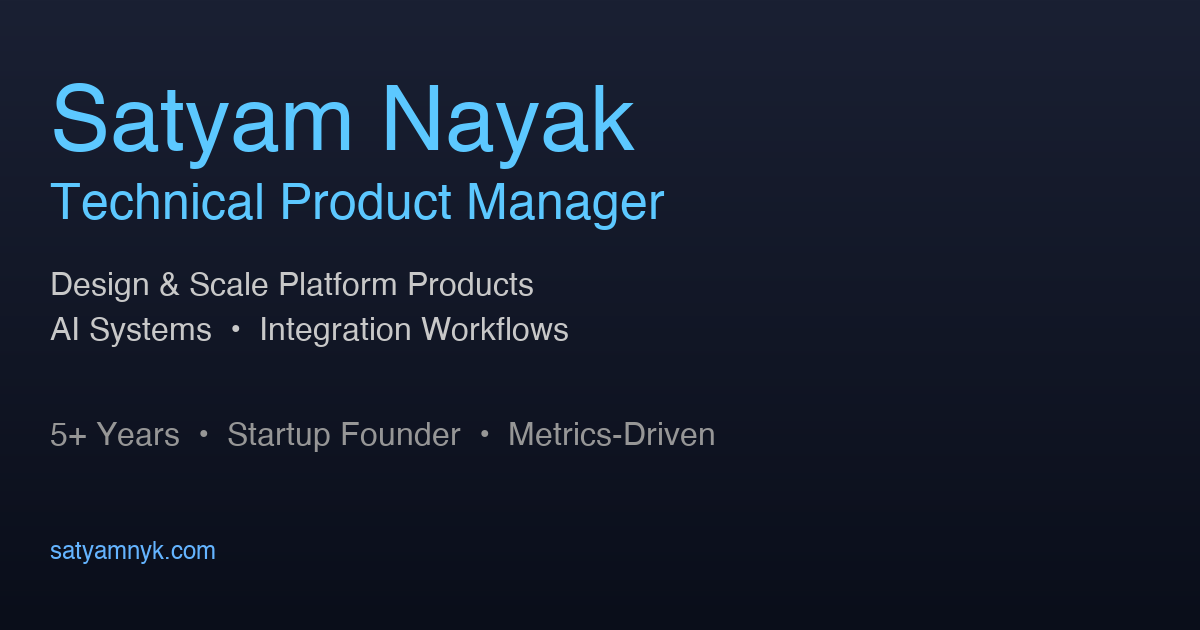
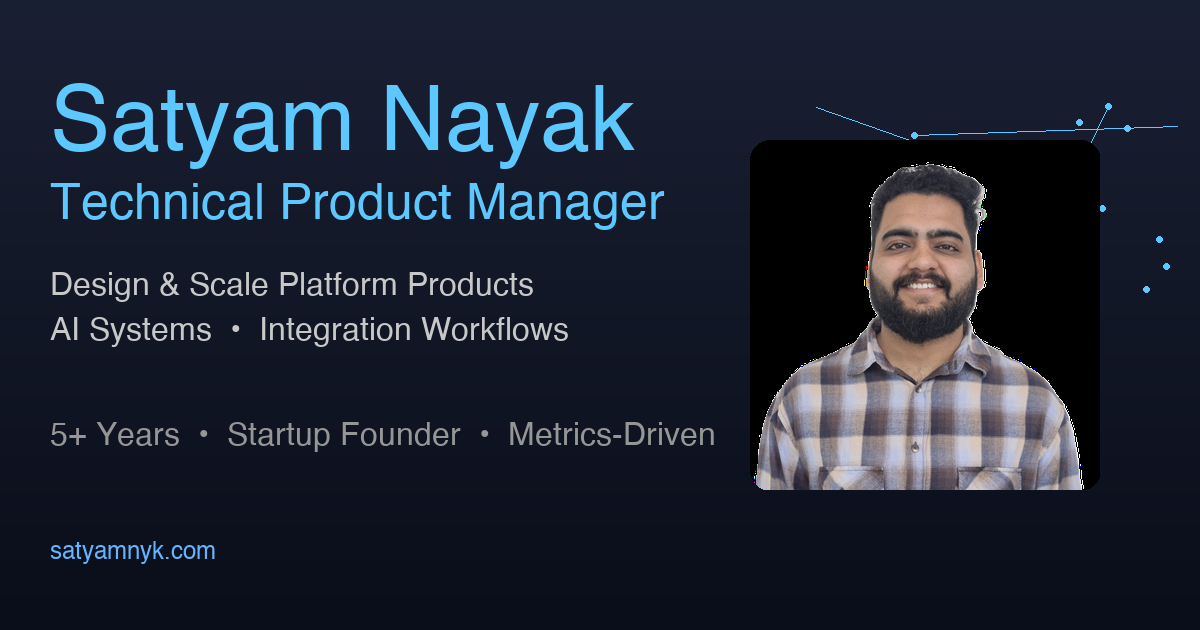
Restore OG poster with profile photo and accent pattern

Changed region(s): [[0.6167, 0.181, 0.925, 0.7841]]

diff --git a/create_og_image.py b/create_og_image.py
@@ -1,7 +1,7 @@
 #!/usr/bin/env python3
 from PIL import Image, ImageDraw, ImageFont
 
-# Create base image with poster background color
+# Create base image with dark background
 img = Image.new('RGB', (1200, 630), color=(10, 14, 26))
 draw = ImageDraw.Draw(img)
 
@@ -12,6 +12,20 @@ for y in range(630):
     g = int(32 * (1 - ratio) + 14 * ratio)
     b = int(51 * (1 - ratio) + 26 * ratio)
     draw.line([(0, y), (1200, y)], fill=(r, g, b))
+
+# Draw geometric pattern in top right (network/constellation style)
+import random
+random.seed(42)
+accent_color = (92, 200, 255)
+for i in range(15):
+    x = random.randint(800, 1200)
+    y = random.randint(100, 350)
+    draw.ellipse([x-3, y-3, x+3, y+3], fill=accent_color)
+    # Connect some dots
+    if i > 0 and i % 3 == 0:
+        prev_x = random.randint(800, 1200)
+        prev_y = random.randint(100, 350)
+        draw.line([(x, y), (prev_x, prev_y)], fill=accent_color, width=1)
 
 # Load fonts
 try:
@@ -39,10 +53,38 @@ draw.text((50, 420), "5+ Years  •  Startup Founder  •  Metrics-Driven", font
 
 draw.text((50, 540), "satyamnyk.com", font=url_font, fill=light_cyan)
 
+# Load and add profile image on right side
+try:
+    profile = Image.open('assets/profile.png')
+    
+    # Create square crop from profile
+    width, height = profile.size
+    size = min(width, height)
+    left = (width - size) // 2
+    top = (height - size) // 2
+    profile_square = profile.crop((left, top, left + size, top + size))
+    
+    # Resize to fit in right side (350x350 square)
+    profile_square = profile_square.resize((350, 350), Image.Resampling.LANCZOS)
+    
+    # Add rounded corners
+    mask = Image.new('L', (350, 350), 0)
+    mask_draw = ImageDraw.Draw(mask)
+    mask_draw.rounded_rectangle((0, 0, 350, 350), radius=20, fill=255)
+    profile_square.putalpha(mask)
+    
+    # Paste image on right side, centered vertically
+    x_pos = 750
+    y_pos = (630 - 350) // 2
+    img.paste(profile_square, (x_pos, y_pos), profile_square)
+    
+except Exception as e:
+    print(f"Note: Could not load profile image: {e}")
+
 # Convert and save as PNG
 img = img.convert('RGB')
 img.save('assets/og-image.png', 'PNG', quality=95)
-print("✅ OG poster image created!")
+print("✅ OG poster with profile photo and accent pattern created!")
 
 
 
